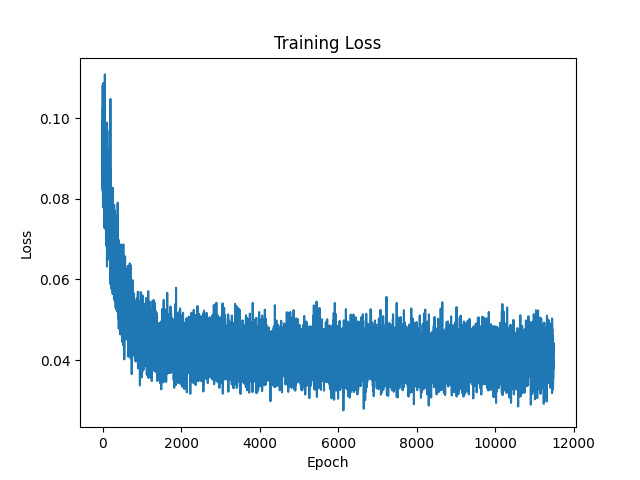
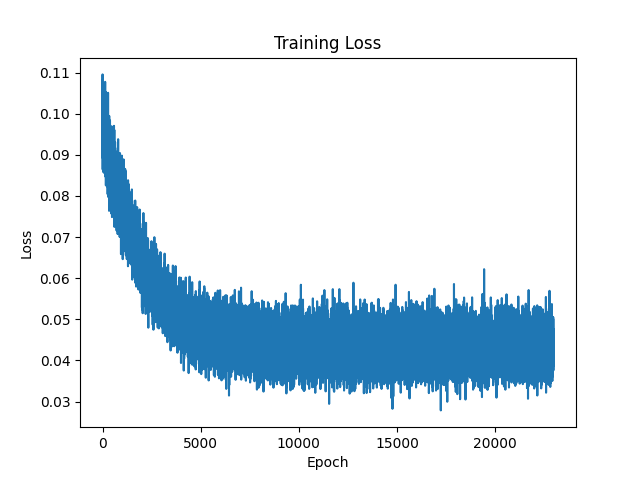
update colab version

diff --git a/2d-image/q_model.py b/2d-image/q_model.py
@@ -22,6 +22,7 @@ class sin_qml(nn.Module):
         self.theta = nn.Parameter(
             torch.rand(self.required_parameters), requires_grad=True
         )
+        self.init_theta = nn.Parameter(torch.rand(1), requires_grad=True)
 
         # self.input_layer = nn.Linear(1, 2 * num_qubit)
 
@@ -74,7 +75,7 @@ class sin_qml(nn.Module):
 
         # encoding_theta = torch.tanh(encoding_theta)
         # print('after enc_theta shape :', encoding_theta.shape)
-        output = self.pqc(x, encoding_theta=encoding_theta)
+        output = self.pqc((1 / self.init_theta) * x, encoding_theta=encoding_theta)
         # print("shaep output ", len(output))
         output = torch.stack((output))
         if self.use_qrelu:

diff --git a/2d-image/main.py b/2d-image/main.py
@@ -139,7 +139,7 @@ dataloader = create_dataloader(
 if METHOD == "position":
     model = PositionEncodingMLP()
 elif METHOD == "quantum":
-    model = sin_qml(WIRE, LAYER, True)
+    model = sin_qml(WIRE, LAYER, False)
 else:
     model = MLPColorPredictor()
 

diff --git a/2d-image/qrelu.py b/2d-image/qrelu.py
@@ -20,7 +20,7 @@ SECOND_COEFFICIENT_M_QRELU_PYTORCH = torch.tensor(SECOND_COEFFICIENT_M_QRELU)
 M_QRELU_NAME = "modified_quantum_relu"
 QRELU_NAME = "quantum_relu"
 
-USE_M_QRELU = False
+USE_M_QRELU = True
 
 
 class QuantumReLU(nn.Module):  # pragma: no cover

diff --git a/2d-image/config.py b/2d-image/config.py
@@ -9,8 +9,8 @@ BATCH_SIZE = 128
 LR = 1e-4
 
 ###
-WIRE = 5
-LAYER = 8
+WIRE = 20
+LAYER = 2
 
 IMAGE_PATH = "test3.jpg"
 
